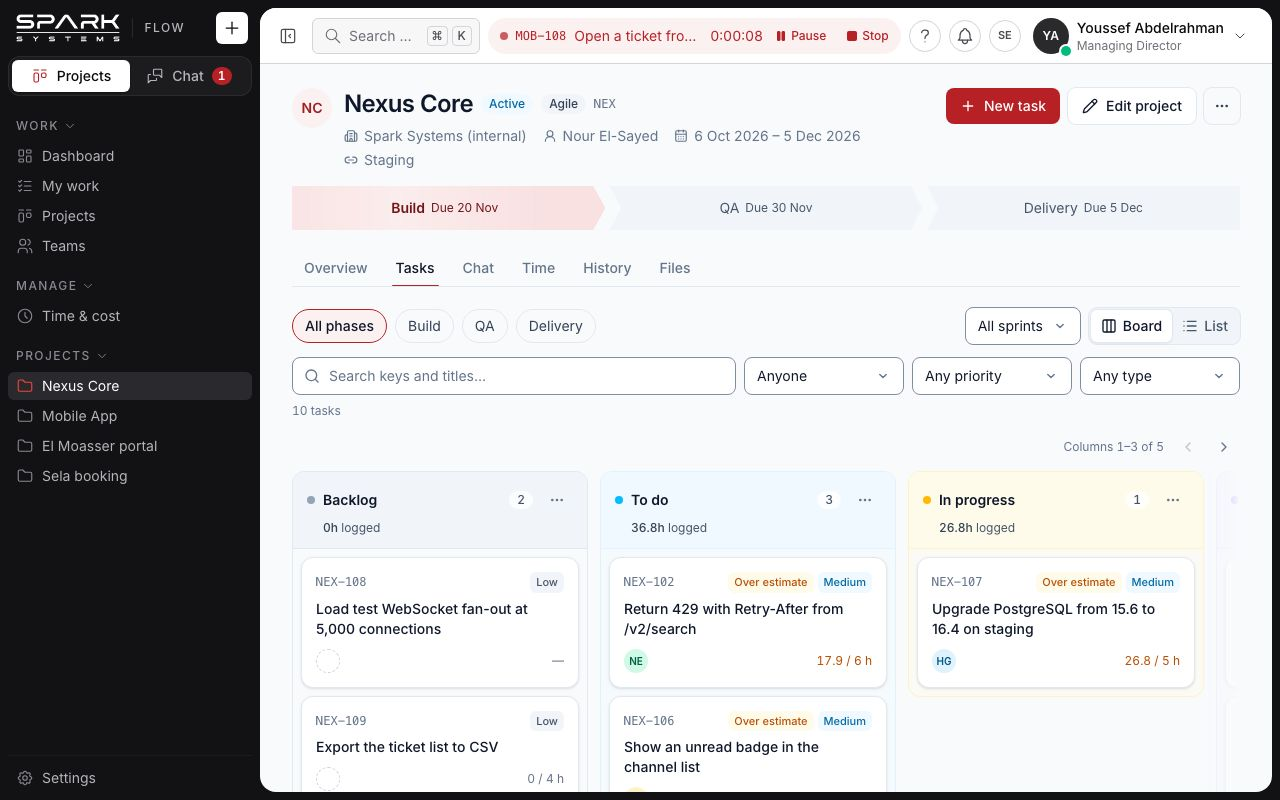
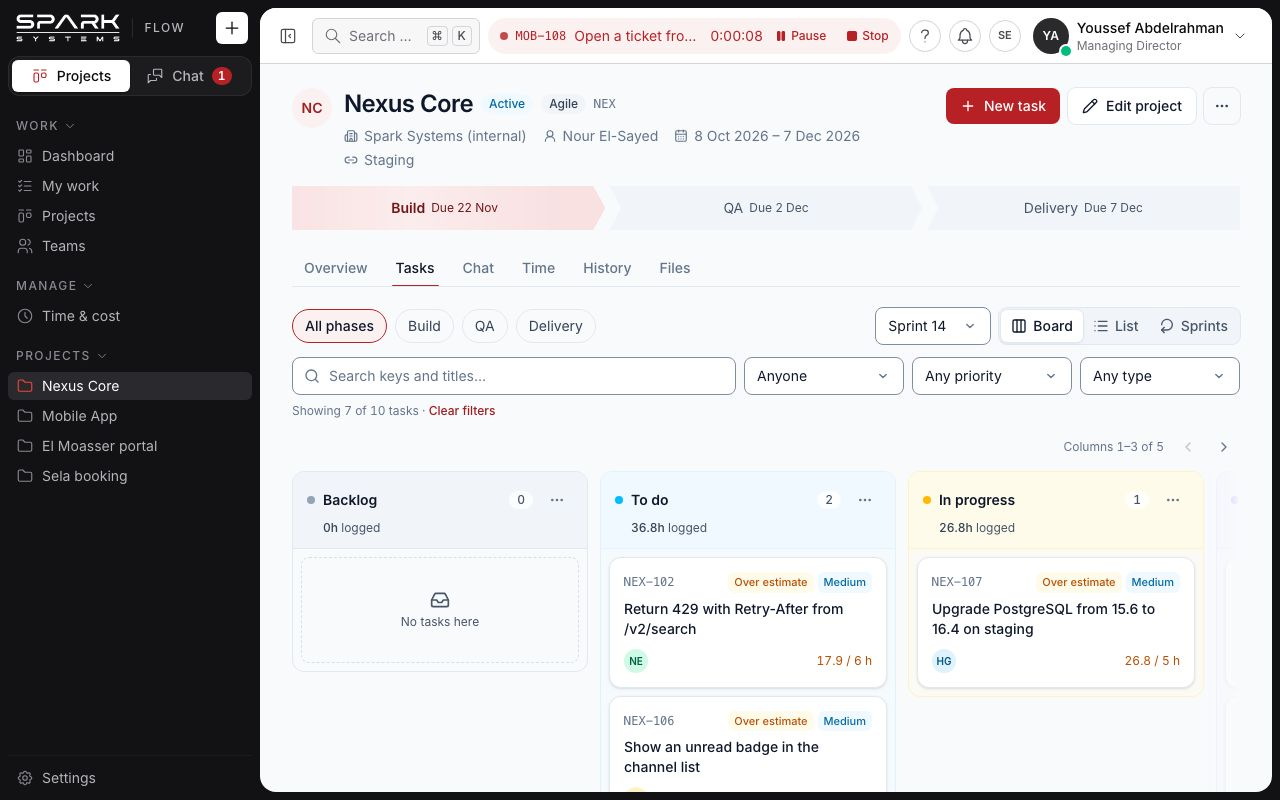
docs(sprints): help, spec §5 and rules after the final review
- Help: ↑ and ↓ move a task between sprints; Backlog is the unfinished
  tasks in no running or planned sprint; board.jpg retaken (Sprint 14,
  Board · List · Sprints).
- Spec §5: an archived project is 400 "This project is archived.
  Restore it first." (as code, Ruling 1); a sprint that's gone is 400
  "That sprint no longer exists."
- CLAUDE.md: api.sprints' writes need task.manage.

diff --git a/CLAUDE.md b/CLAUDE.md
@@ -80,7 +80,7 @@ Spark Flow is a sister product of **Spark CRM** (Spark Systems). The two apps mu
 - **Composer**: the channel's composer is Lexical (`pages/chat/composer/`): `bodyEditor.ts` converts the editor to and from a message body (round-trip tested headless), and the keys, autocomplete and drafts are tested in the browser project. Enter never sends while the autocomplete is open or an IME is composing. A thread replies with `ThreadComposer` (the rich composer, its formatting row hidden until Aa, plus Also send to #channel) and an edit uses the rich editor too; a project's Chat tab is the channel's own `ChannelView` (slice AA). The old textarea `Composer` serves task comments only. Browser tests type into an editor after `focusEditor` (`composer/focusEditor.testkit.ts`).
 - **Files**: every file `src`/`href` goes through `safeFileUrl`; PDFs preview only after the `%PDF-` check.
 - **Task files** (spec `2026-11-07-project-files-and-task-attachments-design.md`): a task stores `descriptionBody` (`DescBody` in `lib/messageBody.ts`: chat's body with text and links only, plus top-level `{ type: 'file', id }` blocks; `validDescription`) and `attachmentIds` (up to 20, DB v31); its plain `description` is worked out on save (`descriptionText`). Files upload first (`files.uploadForTask`, the uploader's alone until a task names them) and attach on save (`checkAttachments` in `mocks/tickets.ts`); a file taken off leaves the description and, if nothing else holds it (`fileInUse` in `mocks/files.ts`, the one "still used" rule), goes with its bytes. The editor is `pages/projects/description/` (`DescriptionEditor`, Lexical with chat's conversions from `bodyEditor.ts` plus a `FileNode`; conversions in `descriptionNodes.ts`), shown by `DescriptionView`; uploads go through `useUploadQueue` (shared with Overview's files). The project's Files tab reads `files.inProject` (each file once, from the first place I can open: Overview, a task, a comment, the chat; comment cards left out).
-- **Sprints** (spec `2026-11-11-sprints-design.md`): agile projects only, no DB change (`Sprint` keeps its shape). The rules (next name, default dates, days left, totals, `sprintErrors`, order) are `lib/sprints.ts`, shared by the mock and the sheets. `api.sprints` (`src/mocks/sprints.ts`: list, create, update, start, complete, remove; `useSprints` keeps its `tickets` query key) needs `task.manage` (an Admin or the project's manager) and refuses waterfall projects; one sprint runs at a time, only a planned sprint with a task starts, Complete keeps done tasks with the sprint and moves the rest to a planned sprint, `'new'` or the backlog, and no task moves into a closed sprint (`checkTaskInput`). Each write records `sprint.*` history (the History tab's Board chip) and an audit entry; start and complete post a `sprintEvent` card in the project's chat (`postSprintEvent` in `mocks/taskEvents.ts`, `pages/chat/SprintEventCard.tsx`), a card like a task's: it mentions nobody, and is never edited, deleted, made a task or matched by a keyword. The Tasks tab's Sprints view (`?view=sprints`, `pages/projects/sprints/`) shows on agile projects only: the running sprint, the planned ones, Backlog; a drag or Move to changes a task's `sprintId` only, and members see it without actions. Start sprint opens on today and keeps the planned length. On Board and List the sprint is the running one by default (also when the remembered one is gone), worked out on every render and never written into the address or remembered; a pick is written and remembered, picking the running sprint follows it (no pick, Ruling 11), and All sprints is remembered only (`''`). The tab's phase and sprint are `useTabFilters` (`filtersFrom`), shared with the project page's New task, which starts in the Board's sprint when it's running or planned; Open in project carries the task's sprint, or `sprint=` (All sprints for that visit, not remembered).
+- **Sprints** (spec `2026-11-11-sprints-design.md`): agile projects only, no DB change (`Sprint` keeps its shape). The rules (next name, default dates, days left, totals, `sprintErrors`, order) are `lib/sprints.ts`, shared by the mock and the sheets. `api.sprints` (`src/mocks/sprints.ts`: list, create, update, start, complete, remove; `useSprints` keeps its `tickets` query key): its writes need `task.manage` (an Admin or the project's manager) and refuse waterfall projects; one sprint runs at a time, only a planned sprint with a task starts, Complete keeps done tasks with the sprint and moves the rest to a planned sprint, `'new'` or the backlog, and no task moves into a closed sprint (`checkTaskInput`). Each write records `sprint.*` history (the History tab's Board chip) and an audit entry; start and complete post a `sprintEvent` card in the project's chat (`postSprintEvent` in `mocks/taskEvents.ts`, `pages/chat/SprintEventCard.tsx`), a card like a task's: it mentions nobody, and is never edited, deleted, made a task or matched by a keyword. The Tasks tab's Sprints view (`?view=sprints`, `pages/projects/sprints/`) shows on agile projects only: the running sprint, the planned ones, Backlog; a drag or Move to changes a task's `sprintId` only, and members see it without actions. Start sprint opens on today and keeps the planned length. On Board and List the sprint is the running one by default (also when the remembered one is gone), worked out on every render and never written into the address or remembered; a pick is written and remembered, picking the running sprint follows it (no pick, Ruling 11), and All sprints is remembered only (`''`). The tab's phase and sprint are `useTabFilters` (`filtersFrom`), shared with the project page's New task, which starts in the Board's sprint when it's running or planned; Open in project carries the task's sprint, or `sprint=` (All sprints for that visit, not remembered).
 - When unsure how something should look, find the closest Spark CRM screen in `design/screenshots/` or pattern in `design/04-page-patterns.md` and match it.
 
 ## Commands

diff --git a/src/help/tasks.md b/src/help/tasks.md
@@ -20,12 +20,12 @@ The description takes formatting: bold, italic, underline, strikethrough, links,
 
 ## Sprints
 
-On an agile project, **Sprints** plans the work: the running sprint first, then each planned sprint, then **Backlog**, the unfinished tasks in no sprint. Each sprint shows its dates, the days left while it runs, its goal, and its tasks and points.
+On an agile project, **Sprints** plans the work: the running sprint first, then each planned sprint, then **Backlog**, the unfinished tasks in no running or planned sprint. Each sprint shows its dates, the days left while it runs, its goal, and its tasks and points.
 
 An Admin or the project’s manager runs the sprints; everyone on the project sees the same list.
 
 - **Create sprint** adds the next one (Sprint 16 after Sprint 15), two weeks long, starting after the last.
-- To plan a sprint, drag a task by its handle into it, or use the task’s **Move to** (the way on a phone). From the keyboard, Space on the handle picks a task up, the arrow keys move it, and Space puts it down.
+- To plan a sprint, drag a task by its handle into it, or use the task’s **Move to** (the way on a phone). From the keyboard, Space on the handle picks a task up, ↑ and ↓ move it, and Space puts it down.
 - **Start sprint** confirms the name, goal and dates. It opens on today and keeps the length the sprint was planned for. One sprint runs at a time, and it needs a task to start.
 - **Complete sprint** keeps the done tasks with it and moves the rest to the next planned sprint, another planned one, a new sprint or the backlog.
 - **⋯** edits a sprint. A planned sprint can also be deleted there; its tasks go to the backlog.

diff --git a/docs/superpowers/specs/2026-11-11-sprints-design.md b/docs/superpowers/specs/2026-11-11-sprints-design.md
@@ -88,7 +88,7 @@ none has a number.
 |---|---|---|
 | Not Admin or the project's manager | 403 | Only an Admin or the project’s manager can change sprints. |
 | Waterfall project | 400 | Sprints are for agile projects. |
-| Archived project | 403 | The same sentence: `task.manage` is frozen on an archived project (`FROZEN`), as every project write. |
+| Archived project | 400 | This project is archived. Restore it first. (Checked first, as every project write; Ruling 1.) |
 | Name empty / over 60 | 400 | Give the sprint a name. / Keep the name under 60 characters. |
 | Goal over 500 | 400 | Keep the goal under 500 characters. |
 | End not after start | 400 | The end date must be after the start date. |
@@ -100,6 +100,7 @@ none has a number.
 | `moveTo` isn't a planned sprint of the project | 400 | Move the tasks to a planned sprint of this project. |
 | Delete a sprint that isn't planned | 400 | Only a planned sprint can be deleted. |
 | A task moved into a closed sprint (task sheet, stale tab) | 400 | That sprint is closed. Pick a planned or running one. |
+| A task moved into a sprint that's gone (deleted while a sheet or tab offered it) | 400 | That sprint no longer exists. |
 
 Archived tasks don't count: not toward "empty" on start, the totals, or "not done", and Complete leaves them where
 they are.
